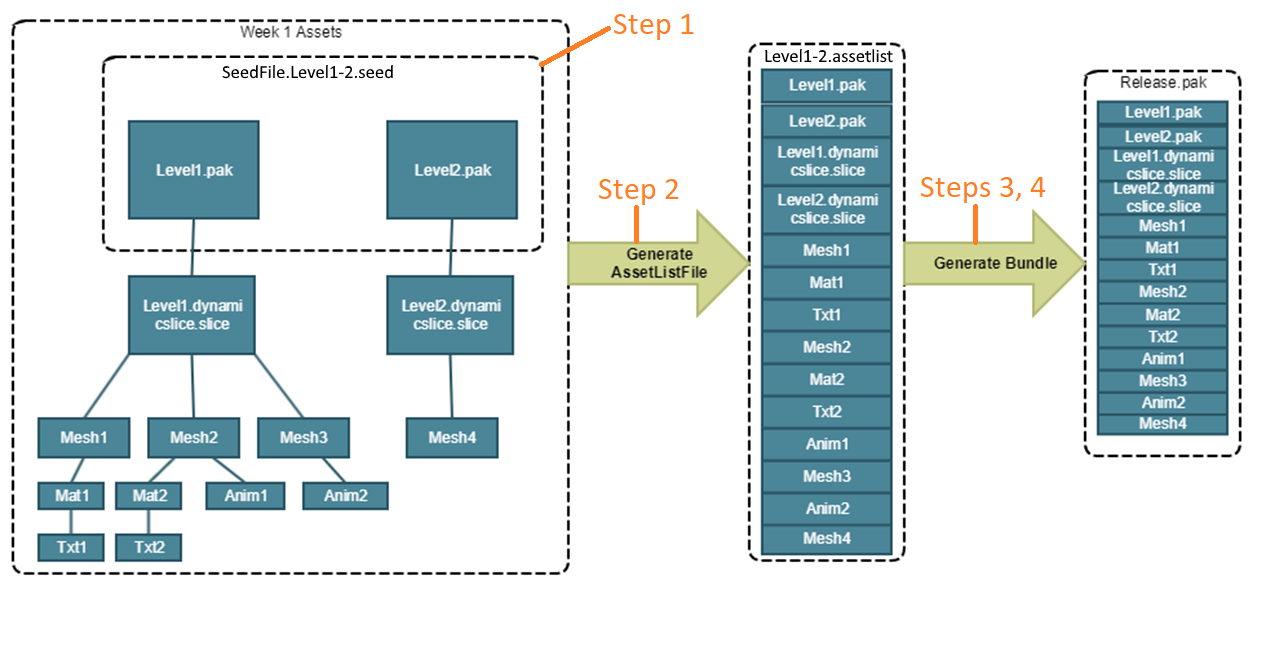
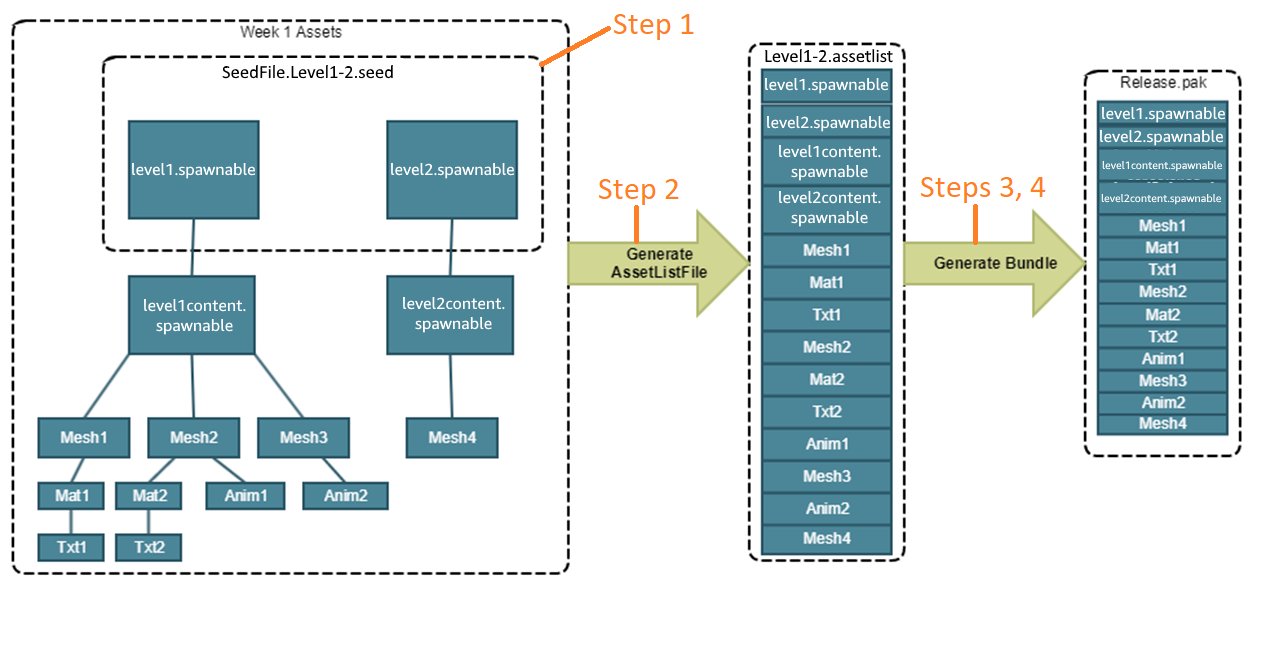
Replaced slice references with prefabs

diff --git a/content/docs/user-guide/packaging/asset-bundler/overview.md b/content/docs/user-guide/packaging/asset-bundler/overview.md
@@ -26,7 +26,7 @@ By using the Asset Bundler, because you have smaller release packages, less risk
 
 Generating a platform-specific asset bundle using the Asset Bundler follows these steps:
 
-1. **Define your seeds**. A *seed* is generally a top-level asset, such as a `.pak` file that contains an entire game or game level. You must have one or more seeds defined in a seed list. A seed list is a file with the suffix `.seed`.
+1. **Define your seeds**. A *seed* is generally a top-level asset, such as a `.spawnable` file that contains an entire game level. You must have one or more seeds defined in a seed list. A seed list is a file with the suffix `.seed`.
 
 1. **Generate your asset lists**. The Asset Bundler evaluates each seed defined in your seed list. It then recursively evaluates each dependent asset for inclusion in a complete asset list. Generated asset lists have the suffix `.assetlist`.
 
@@ -38,7 +38,7 @@ Generating a platform-specific asset bundle using the Asset Bundler follows thes
 
 ![The steps used in the general process for bundling assets with O3DE.](/images/user-guide/assetbundler/asset-bundler-overview.png)
 
-In this example, the seeds are the assets Level1.pak and Level2.pak. These `.pak` files reference O3DE slice files, which reference the entity meshes they contain, which in turn reference the material and texture files for those entities.
+In this example, the seeds are the assets Level1.spawnable and Level2.spawnable. These `.spawnable` files reference O3DE prefab product asset files and in this context represent game levels, which reference the entity meshes they contain, which in turn reference the material and texture files for those entities.
 
 With those product dependency relationships in place, the Asset Bundler examines the hierarchies of each seed and generates an asset list. Asset lists, along with the bundle settings file that you create, are used to assemble the final bundle as a `.pak` file with all of the dependent assets. Any assets not associated with a seed are not included in the final release bundle.
 
